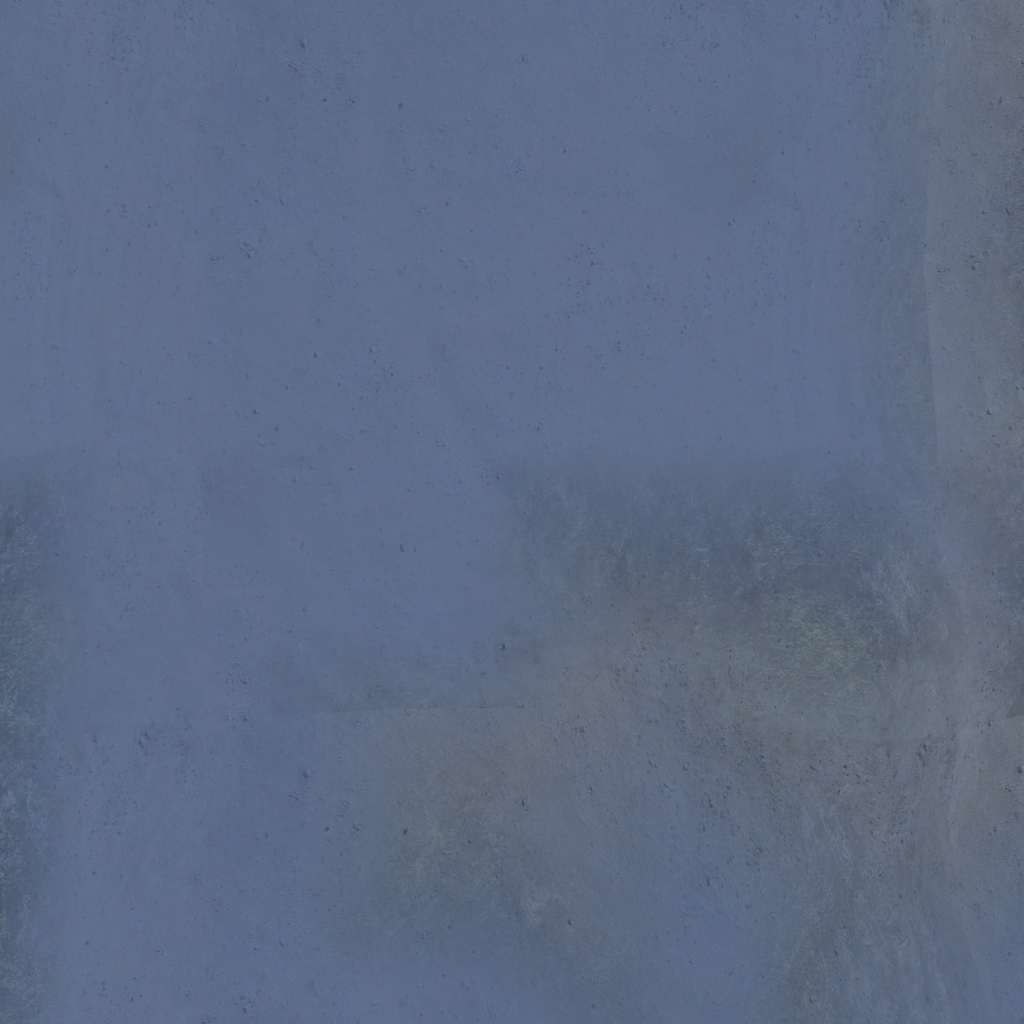
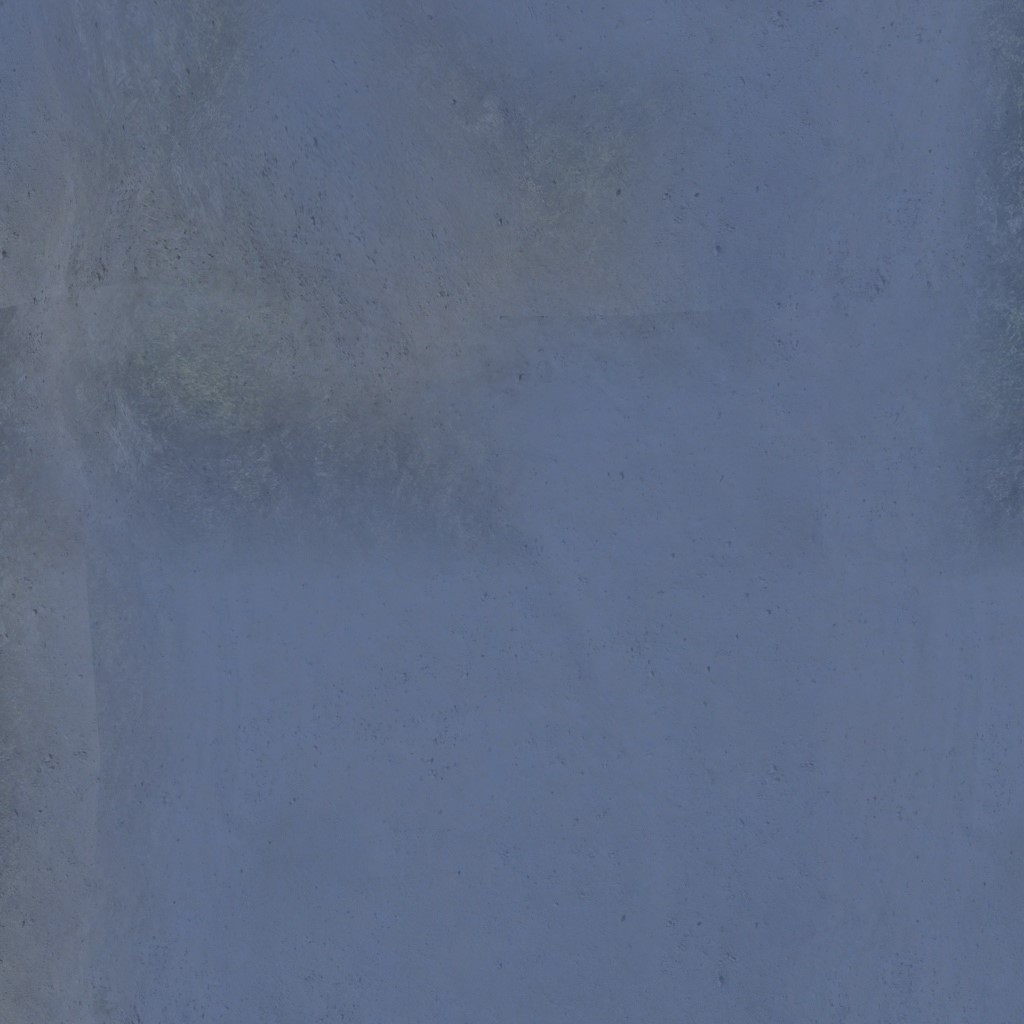
skybox fixed

diff --git a/TexInfo/TexInfo.cpp b/TexInfo/TexInfo.cpp
@@ -13,14 +13,38 @@ TexInfo::TexInfo(std::string filename) {
 
 TexInfo::TexInfo(int size) {
 
+
     std::string faceSkybox[]{
-         "Skybox/underwater/uw_rt.jpg",
+      "Skybox/underwater/uw_bk.jpg",
+      "Skybox/underwater/uw_ft.jpg",
+
+      "Skybox/underwater/uw_up.jpg",
+      "Skybox/underwater/uw_dn.jpg",
+
+      
+      "Skybox/underwater/uw_lf.jpg",
+      "Skybox/underwater/uw_rt.jpg"
+      
+    };
+ /*   std::string faceSkybox[]{
          "Skybox/underwater/uw_lf.jpg",
+         "Skybox/underwater/uw_rt.jpg",
          "Skybox/underwater/uw_up.jpg",
          "Skybox/underwater/uw_dn.jpg",
          "Skybox/underwater/uw_ft.jpg",
          "Skybox/underwater/uw_bk.jpg"
-    };
+    };*/
+    
+    
+ /*   std::string faceSkybox[]{
+         "Skybox/rainbow_rt.png",
+         "Skybox/rainbow_lf.png",
+         "Skybox/rainbow_up.png",
+         "Skybox/rainbow_dn.png",
+         "Skybox/rainbow_ft.png",
+         "Skybox/rainbow_bk.png"
+    };*/
+
 
     for (unsigned int i = 0; i < size; i++) {
         int w, h, skyChannel;
@@ -31,6 +55,8 @@ TexInfo::TexInfo(int size) {
         this->vecHeight.push_back(h);
         this->vecColorChannels.push_back(skyChannel);
     }
+
+    stbi_set_flip_vertically_on_load(true);
 }
 
 TexInfo::~TexInfo() {

diff --git a/Camera/Camera.cpp b/Camera/Camera.cpp
@@ -5,8 +5,8 @@ Camera::Camera(glm::vec3 cameraPos, glm::vec3 cameraFront):
 	cameraFront(cameraFront),
 	cameraUp(glm::vec3(0,1,0))
 {
-	this->intiializedViewMatrix = glm::mat4(1.0f);
-	this->initializedProjectionMatrix = glm::mat4(1.0f);
+	this->viewMatrix = glm::mat4(1.0f);
+	this->projectionMatrix = glm::mat4(1.0f);
 }
 
 
@@ -28,9 +28,9 @@ void Camera::Draw() {
 }
 
 glm::mat4 Camera::getViewMatrix() {
-	return this->intiializedViewMatrix;
+	return this->viewMatrix;
 }
 
 glm::mat4 Camera::getProjectionMatrix() {
-	return this->initializedProjectionMatrix;
+	return this->projectionMatrix;
 }

diff --git a/Camera/Perspective/PerspectiveCamera.cpp b/Camera/Perspective/PerspectiveCamera.cpp
@@ -20,7 +20,10 @@ void Perspective::Draw() {
     viewMatrix = glm::rotate(viewMatrix, glm::radians(-delta.y), glm::vec3(1,0,0));
     viewMatrix = glm::rotate(viewMatrix, glm::radians(-delta.x), glm::vec3(0,1,0));
 
+    this->viewMatrix = viewMatrix;
+
     glm::mat4 projectionMatrix = glm::perspective(glm::radians(this->fieldOfView), 1280.f / 720.f, 0.1f, 100.f);
+    this->projectionMatrix = projectionMatrix;
     
     auto modelShader = ShaderManager::getModelShader();
     unsigned int projectionLoc = glGetUniformLocation(*modelShader, "projection");

diff --git a/Camera/Orthographic/OrthographicCamera.cpp b/Camera/Orthographic/OrthographicCamera.cpp
@@ -10,6 +10,7 @@ void Orthographic::Draw(){
     Camera::Draw();
 
     glm::mat4 viewMatrix = glm::lookAt(cameraPos, cameraPos + cameraFront, cameraUp);
+    this->viewMatrix = viewMatrix;
 
     glm::mat4 projectionMatrix = glm::ortho(
          this->orthoData.left,
@@ -19,6 +20,8 @@ void Orthographic::Draw(){
          this->orthoData.znear,
          this->orthoData.zfar
      );
+
+    this->projectionMatrix = projectionMatrix;
     
     auto modelShader = ShaderManager::getModelShader();
 

diff --git a/Skybox/Skybox.cpp b/Skybox/Skybox.cpp
@@ -102,9 +102,9 @@ void Skybox::Draw(glm::mat4 viewMatrix, glm::mat4 projectionMatrix) {
     glUniformMatrix4fv(skyboxProjLoc, 1, GL_FALSE, glm::value_ptr(projectionMatrix));
 
     glBindVertexArray(this->VAO);
+  
     glDrawElements(GL_TRIANGLES, 36, GL_UNSIGNED_INT, 0);
     glDepthMask(GL_TRUE);
     glDepthFunc(GL_LESS);
-
     glUseProgram(*modelShader);
 }

diff --git a/Workspace/Workspace.cpp b/Workspace/Workspace.cpp
@@ -153,9 +153,9 @@ void Workspace::subscribe() {
 /*Draws in the models when cloning is enabled*/
 void Workspace::render() {
 	
-	currentCamera->Draw();
-
 	this->skybox[0]->Draw(currentCamera->getViewMatrix(), currentCamera->getProjectionMatrix());
+
+	currentCamera->Draw();
 
 	this->directionLight.Draw();
 	this->pointLight.Draw();

diff --git a/Camera/Camera.hpp b/Camera/Camera.hpp
@@ -12,8 +12,7 @@ class Camera {
 	
 	protected:
 		glm::mat4 viewMatrix;
-		glm::mat4 intiializedViewMatrix;
-		glm::mat4 initializedProjectionMatrix;
+		glm::mat4 projectionMatrix;
 		
 		glm::vec3 cameraPos;
 		glm::vec3 cameraUp;
